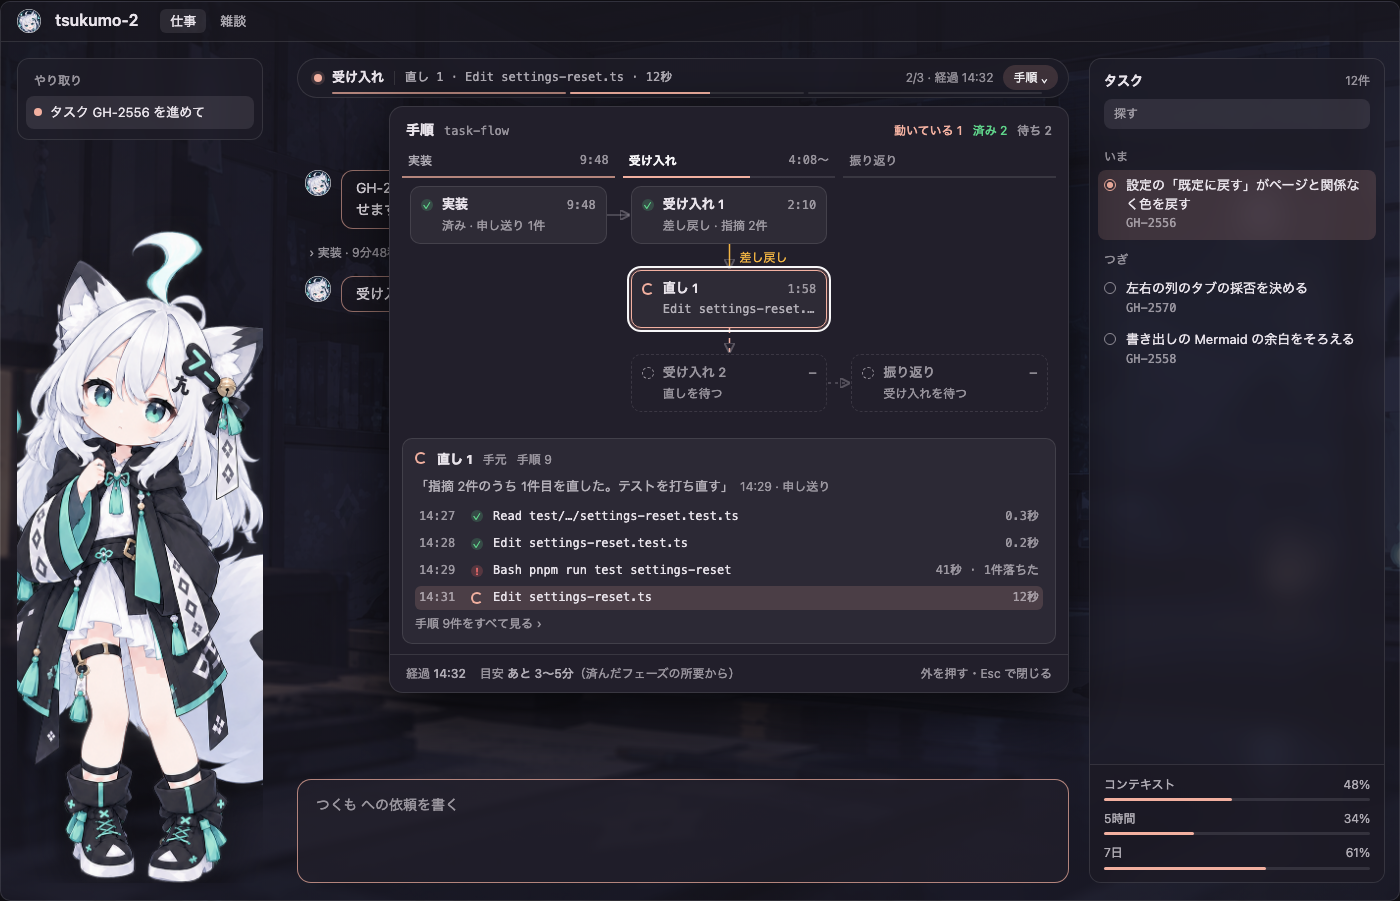
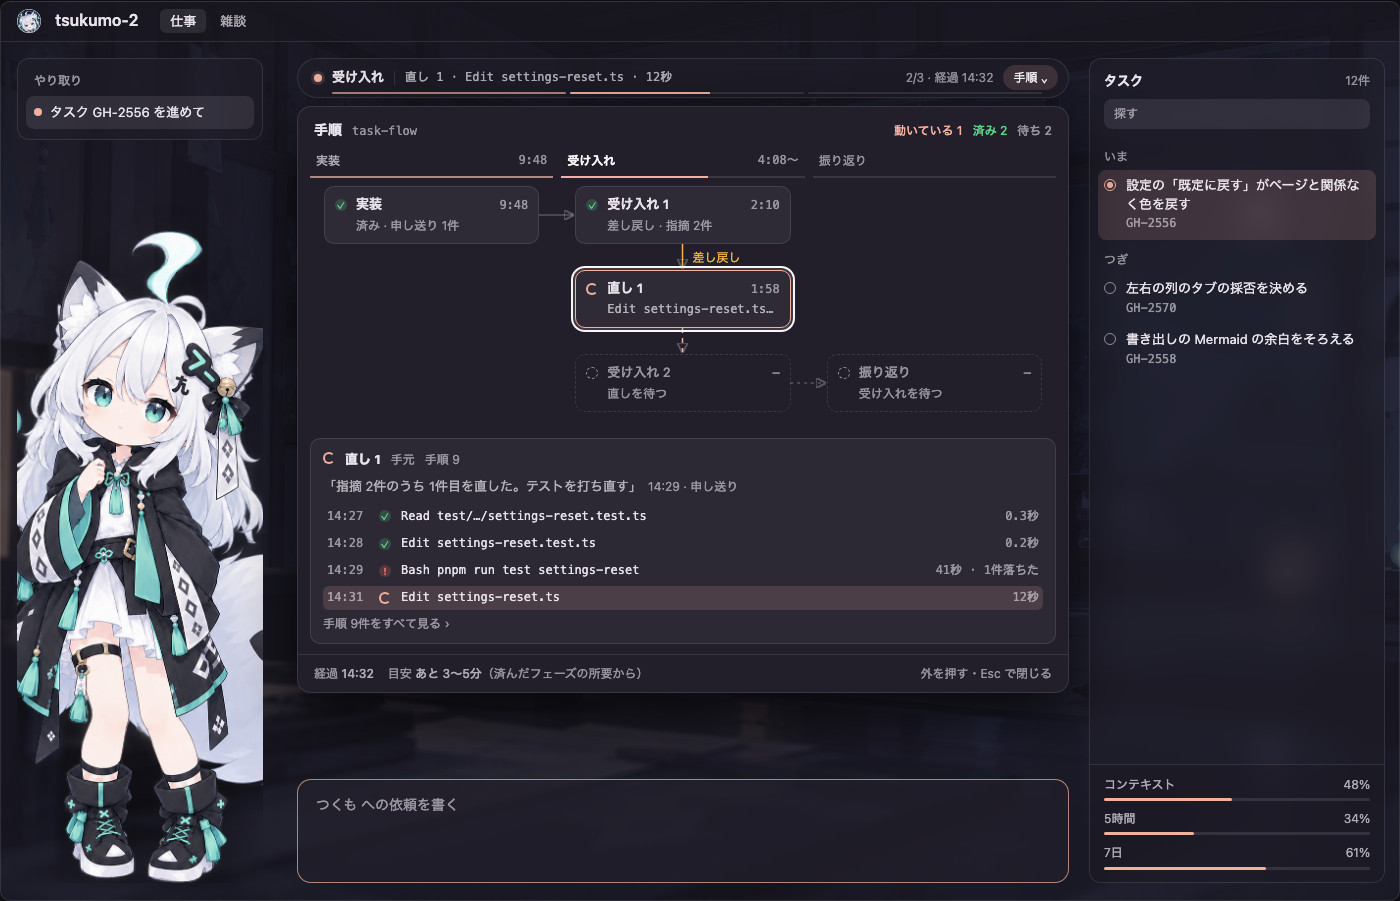
ピルの「手順」の図の見本で、面の幅をピルにそろえた

diff --git a/docs/history/mockup/workflow-agents-2026-11-22/pill.html b/docs/history/mockup/workflow-agents-2026-11-22/pill.html
@@ -107,7 +107,7 @@
 
   /* ===== 「手順」の面（全体の詳細） ===== */
   .detail {
-    position: absolute; top: 48px; right: 0; width: 680px; border-radius: 14px; background: var(--surface);
+    position: absolute; top: 48px; left: 0; right: 0; border-radius: 14px; background: var(--surface);
     border: 1px solid var(--line); box-shadow: 0 22px 60px #000b; overflow: hidden;
   }
   .detail > header { display: flex; align-items: baseline; gap: 10px; padding: 12px 16px 6px; }
@@ -244,6 +244,7 @@
 
 <section class="notes">
   <div class="note hl"><h2>押したときだけ出る図</h2>
+    <p>面の幅はピルの幅にそろえる（左右の端をピルにそろえて重ねる）。部品はできる限り Astryx（ui/）で組む。</p>
     <p>ピルの右端の「手順」（ADR 0070 論点 8 の全体の詳細）の頭に、ワークフローの図を置く。列はフェーズで、ピルの下線の区間と同じ並び・同じ色。箱1つがエージェント1体で、矢印が順番、橙の矢印が差し戻し。</p>
     <p>走っている体は差し色の縁と流れる矢印、済んだ体は結果の一言、待ちの体は点線、失敗は赤い縁と理由。</p></div>
   <div class="note"><h2>箱を押すと手元が見える</h2>
@@ -378,7 +379,7 @@ function layout(s) {
   const startPad = s.start ? 26 : 0;
   stage.querySelectorAll(".node").forEach((el) => {
     const n = s.nodes.find((x) => x.id === el.dataset.node);
-    const w = Math.min(210, colW - 16 - (n.col === 0 ? startPad : 0));
+    const w = Math.min(228, colW - 28 - (n.col === 0 ? startPad : 0));
     el.style.width = w + "px";
     el.style.left = (n.col * (colW + 8) + (colW - w) / 2 + (n.col === 0 ? startPad / 2 : 0)) + "px";
   });
